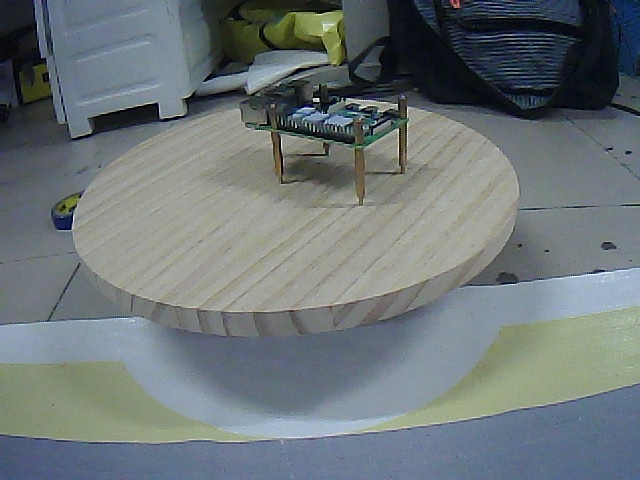
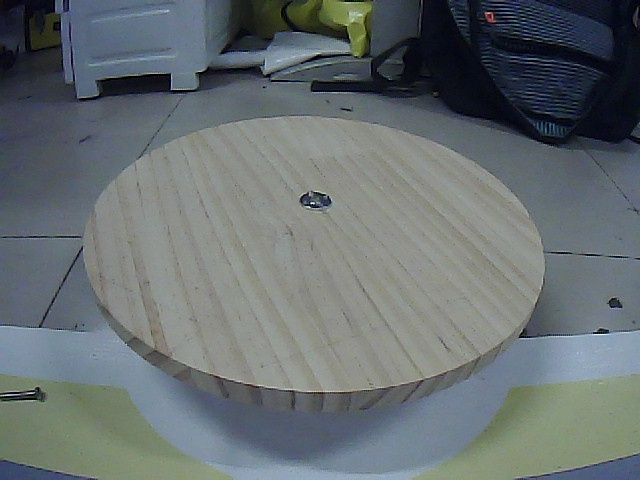
take 3 img

diff --git a/script/takeshot.py b/script/takeshot.py
@@ -8,7 +8,14 @@ cap.set(3, 640)
 cap.set(4, 480)
 cap.set(6, cv2.VideoWriter.fourcc(*'MJPG'))
 
-n = 1
+n = 0
+with open( "img.txt", "r") as file:
+    s = file.read()
+    n = int(s)
+    print(s)
+
+t = n
+
 while n > 0:
     ret, frame = cap.read()
     if ret:
@@ -16,4 +23,7 @@ while n > 0:
     if cv2.waitKey(10) & 0xFF == ord("q"):
         cv2.imwrite(f"./{n}.jpg", frame)
         print(f"take {n} photo")
-        n -= 1
+        n = 0
+
+with open( "img.txt", "w") as file:
+    file.write(str(t+1))
